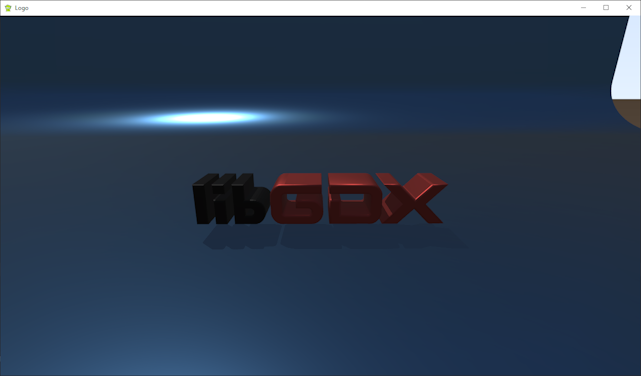
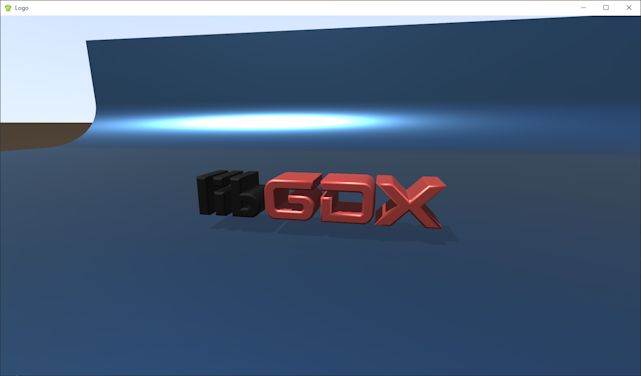
more lighting

diff --git a/teavm/src/main/java/com/monstrous/logo/teavm/TeaVMLauncher.java b/teavm/src/main/java/com/monstrous/logo/teavm/TeaVMLauncher.java
@@ -16,8 +16,9 @@ public class TeaVMLauncher {
     public static void main(String[] args) {
         TeaApplicationConfiguration config = new TeaApplicationConfiguration("canvas");
         // change these to both 0 to use all available space, or both -1 for the canvas size.
-        config.width = 640;
-        config.height = 480;
+        config.width = 0;
+        config.height = 0;
+        config.antialiasing = true;
         new TeaApplication(new Main(), config);
     }
 }

diff --git a/core/src/main/java/com/monstrous/logo/Main.java b/core/src/main/java/com/monstrous/logo/Main.java
@@ -67,7 +67,7 @@ public class Main extends ApplicationAdapter
 		//light = new DirectionalLightEx();
 		light = new DirectionalShadowLight(SHADOW_MAP_SIZE, SHADOW_MAP_SIZE).setViewport(5,5,5,40);
 
-		light.direction.set(1, -3, 1).nor();
+		light.direction.set(1, -3, -1).nor();
 		light.color.set(Color.WHITE);
         light.intensity = 10f;
 		sceneManager.environment.add(light);
